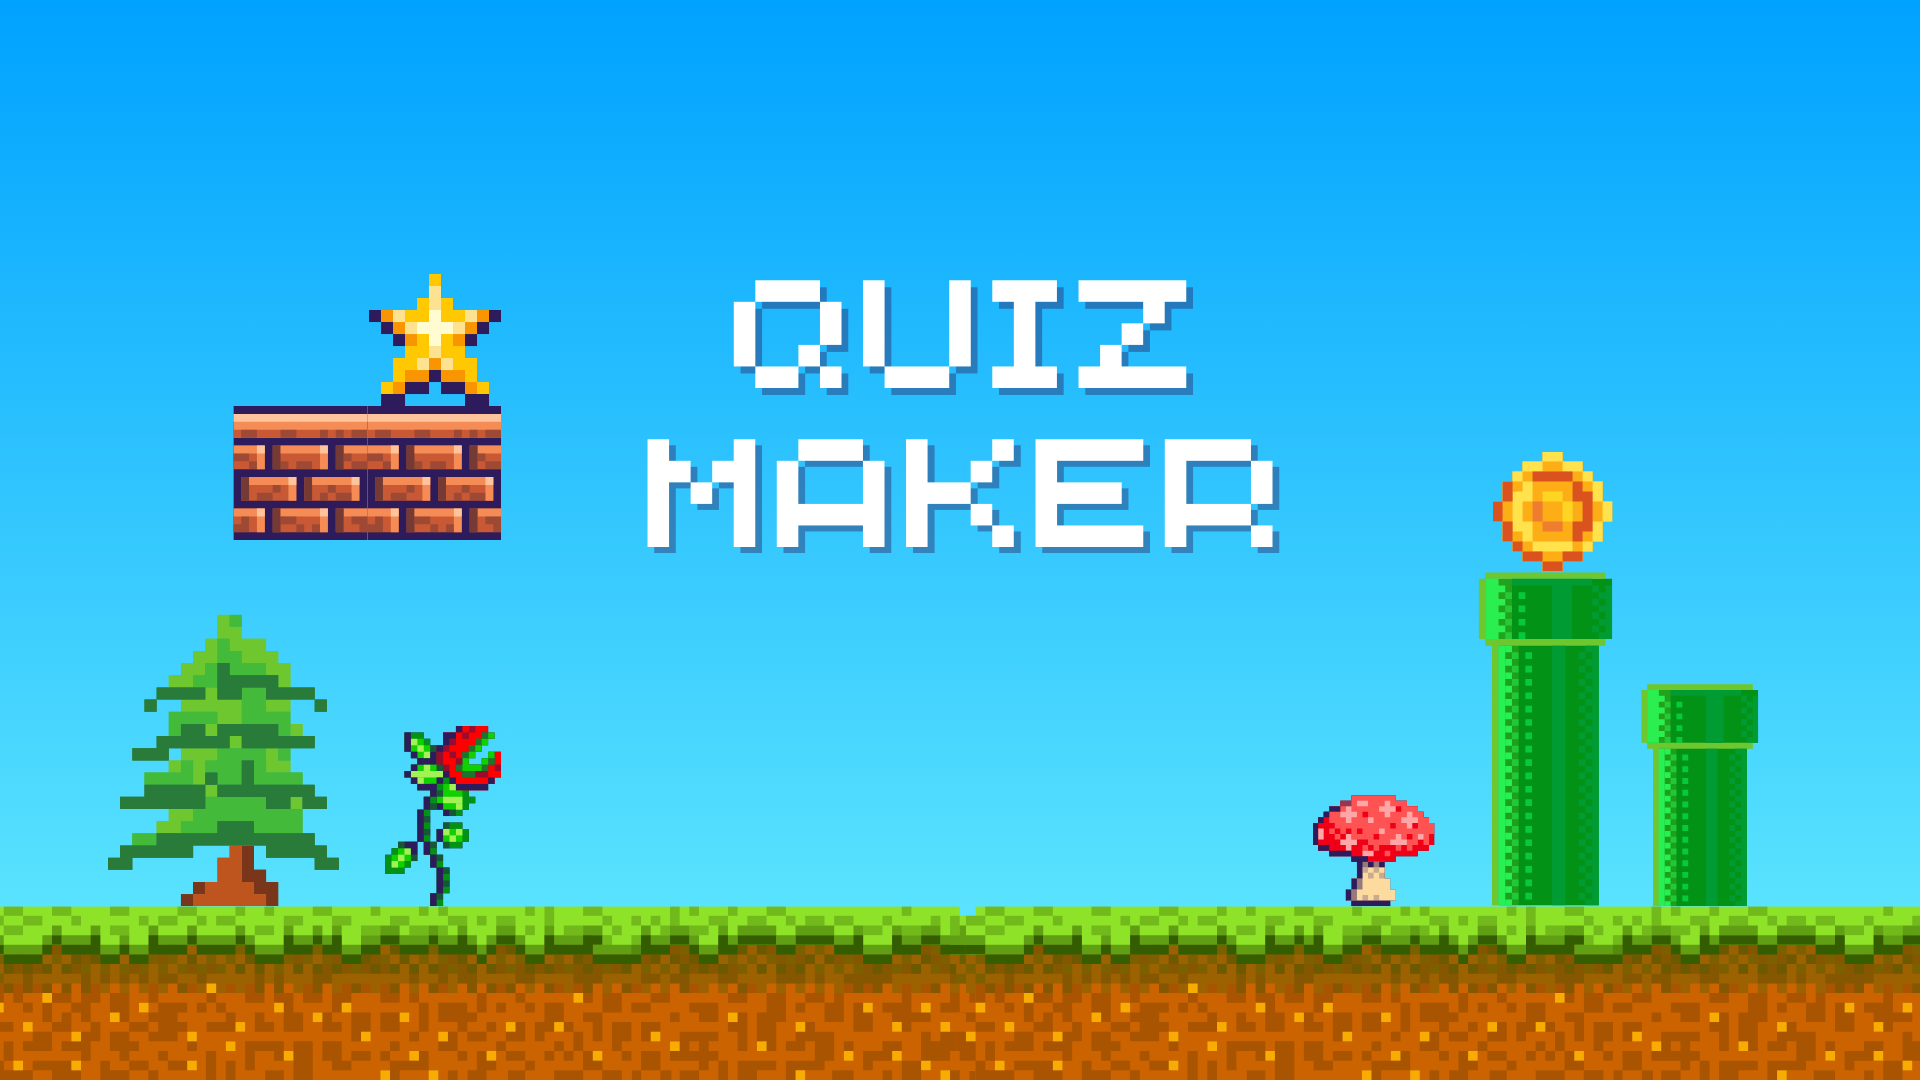
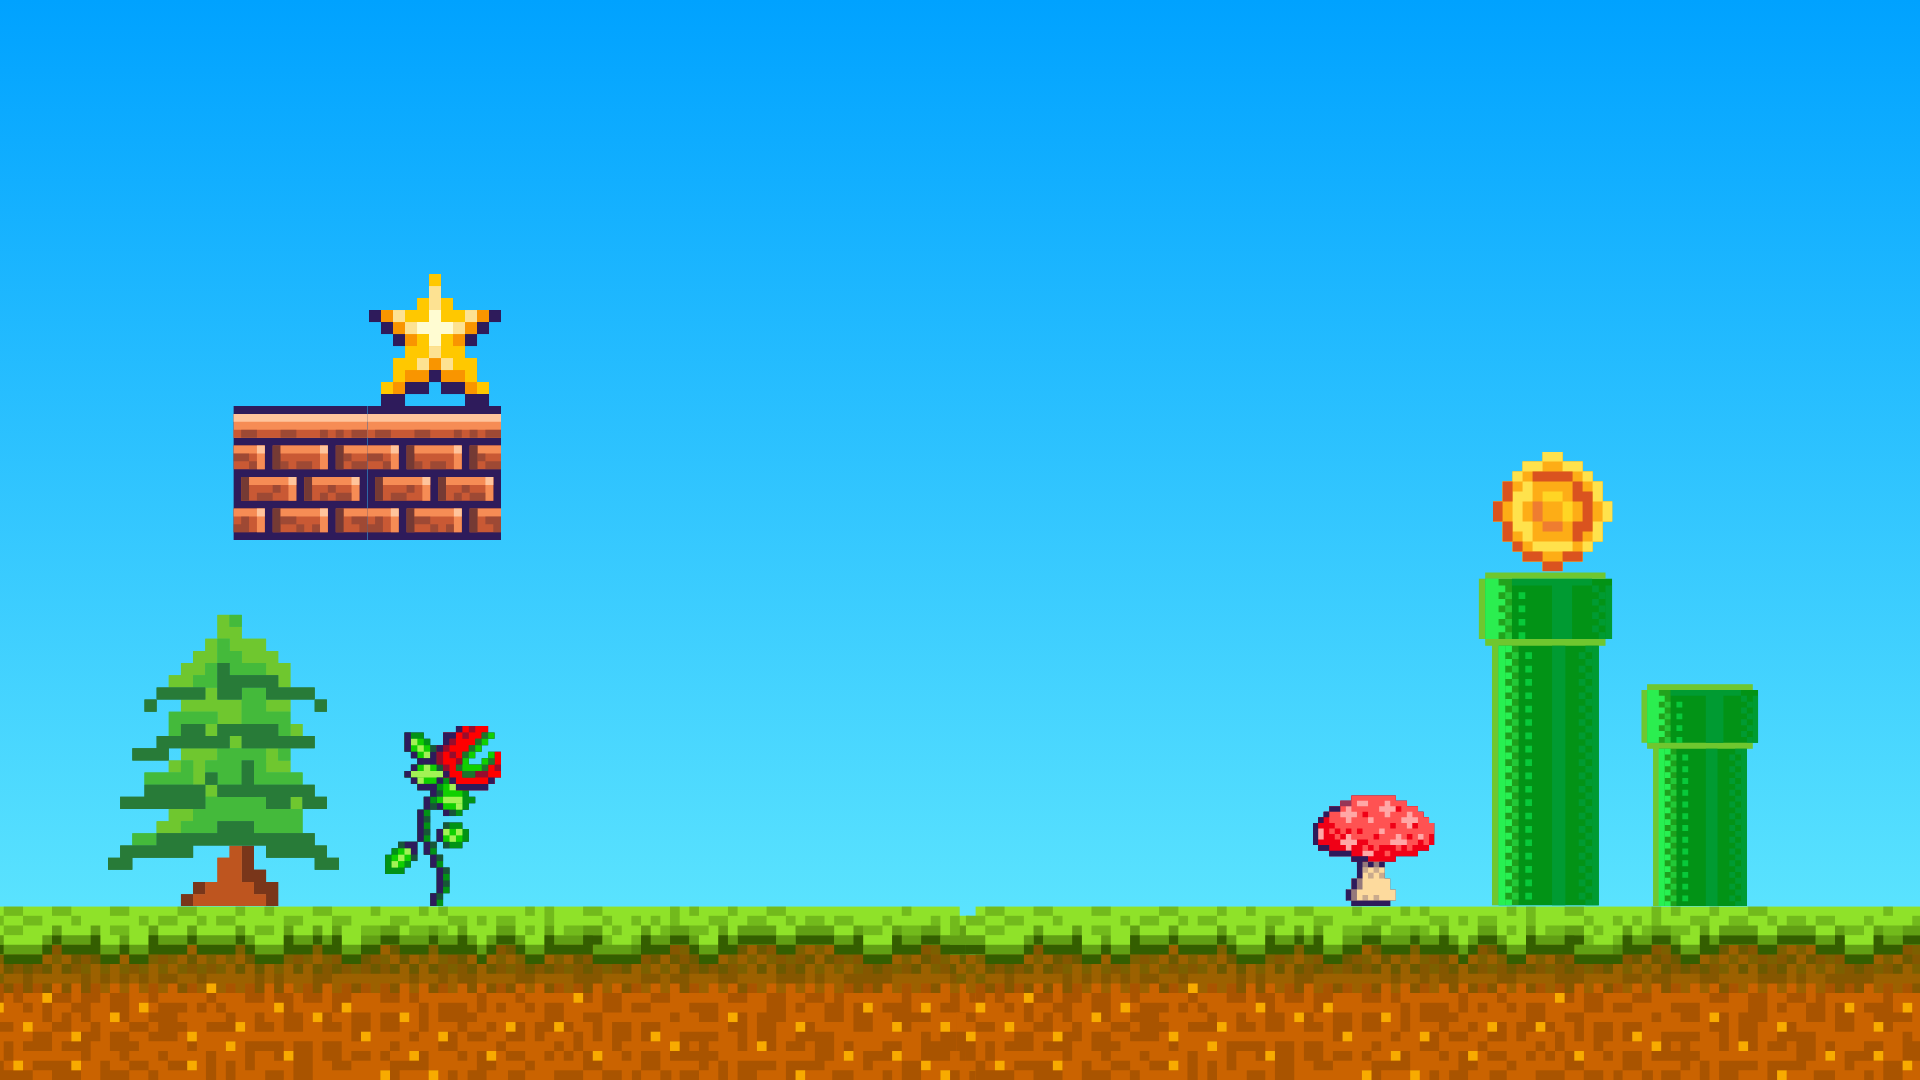
fixed the background responsiveness of homepge

Changed region(s): [[0.3125, 0.3972, 0.6875, 0.5194], [0.375, 0.2444, 0.625, 0.3667]]

diff --git a/frontend/quiz-creator-v2.0/src/pages/HomePage.jsx b/frontend/quiz-creator-v2.0/src/pages/HomePage.jsx
@@ -1,5 +1,6 @@
 import React from "react";
 import bg from "/src/assets/bg.png";
+import titleIcon from "/src/assets/title.png";
 import quizCreatorIcon from "/src/assets/quiz-creator.png";
 import quizTakerIcon from "/src/assets/quiz-taker.png";
 
@@ -10,7 +11,14 @@ const HomePage = () => {
         className="min-h-screen bg-cover bg-center flex flex-col items-center justify-center text-white"
         style={{ backgroundImage: `url(${bg})` }}
       >
-        <a href="/create" className="mt-60 py-5">
+        <div>
+          <img
+            src={titleIcon}
+            alt="quiz title"
+            className="w-[85vw] md:h-auto md:w-auto"
+          />
+        </div>
+        <a href="/create" className="py-5">
           <img
             src={quizCreatorIcon}
             alt="Create a Quiz"
